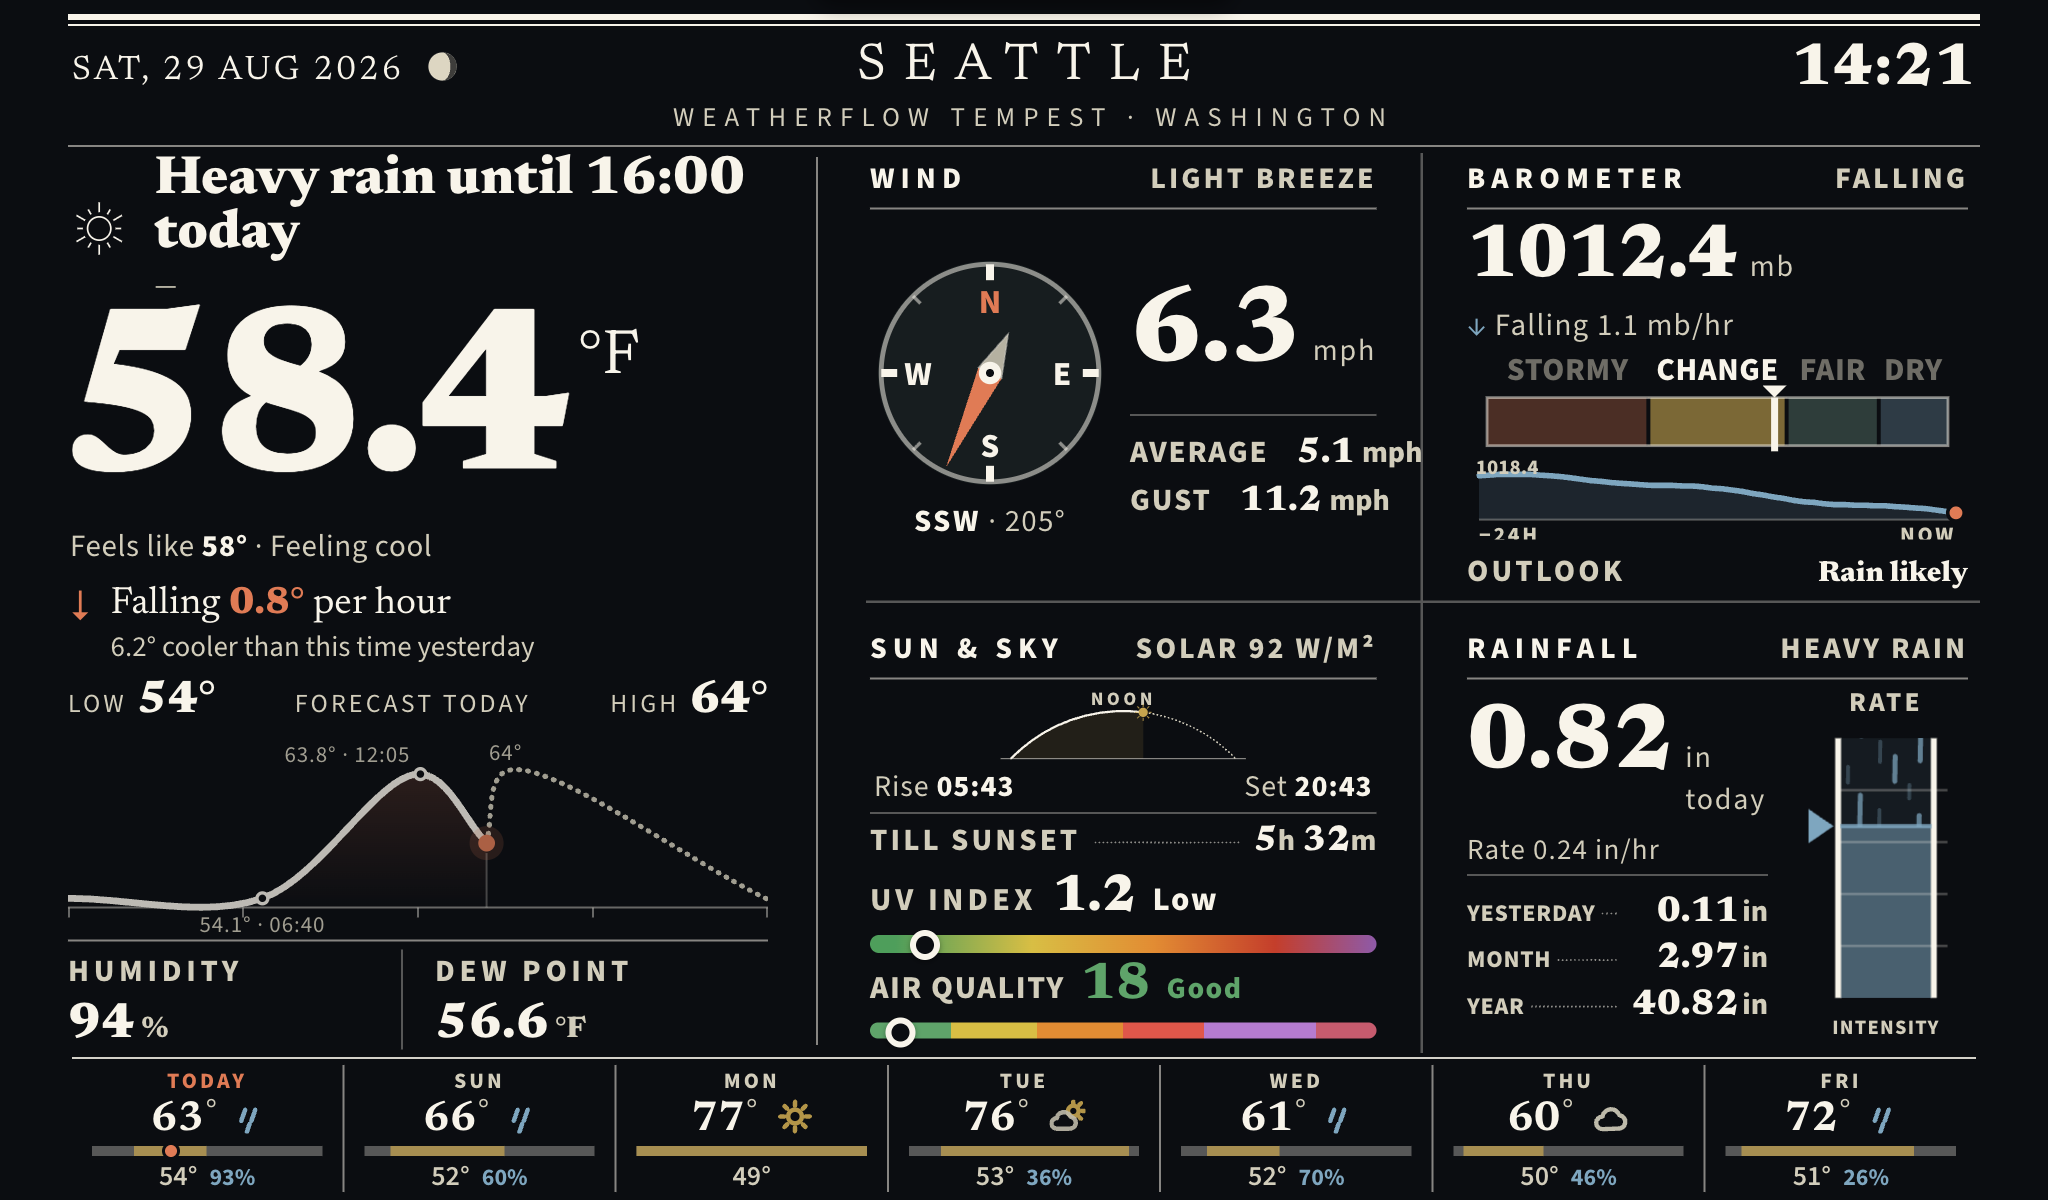
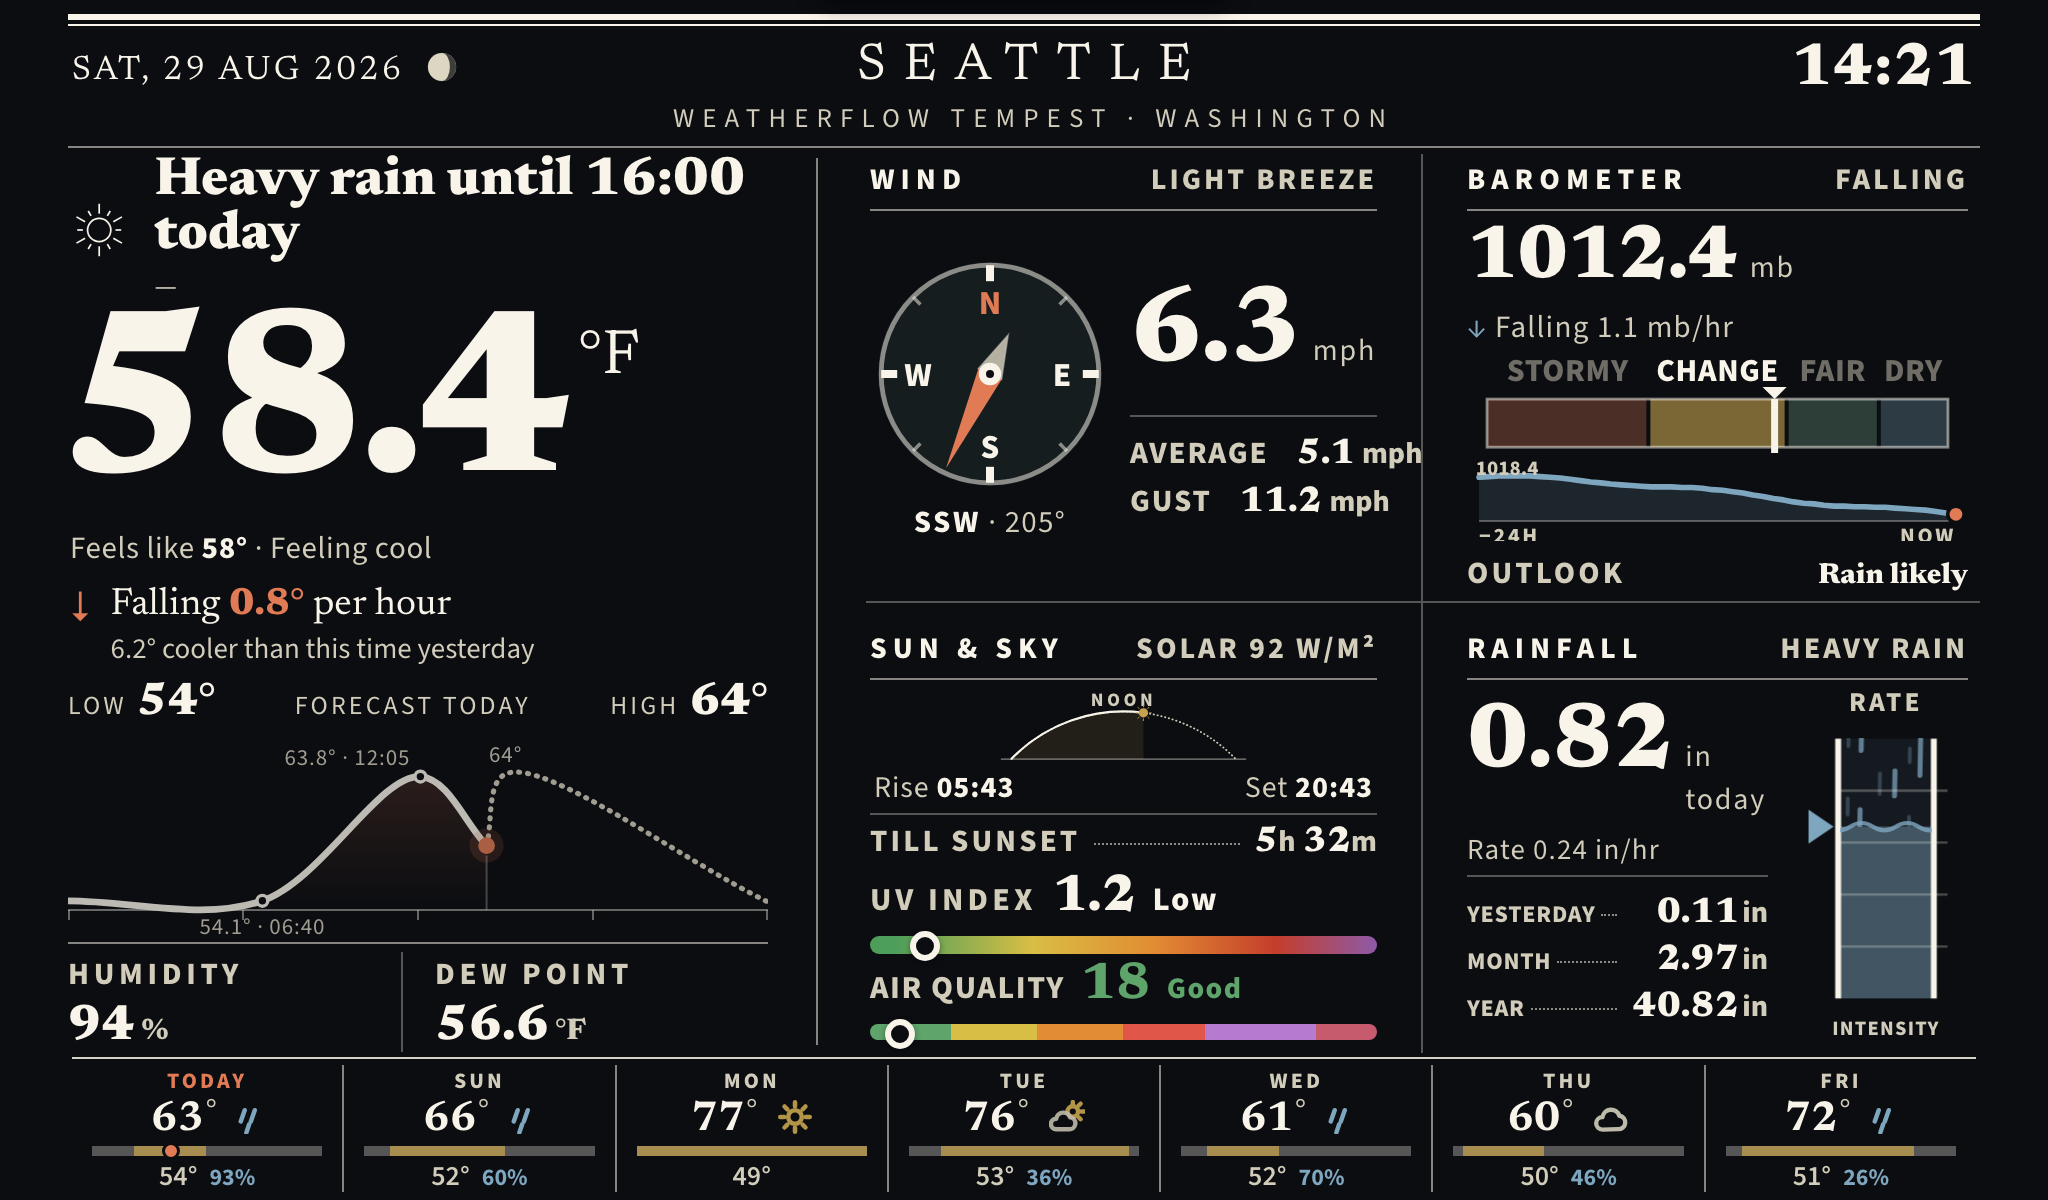
almanac: the waterline waves - a traveling sine surface replaces the fade
Gary's call: instead of the water column fading up and down, a subtle
wave. The meniscus is now a gentle sine surface (four 20px wavelengths,
±1.6px) riding the pointer group - its MEAN position stays the data -
translated by exactly one wavelength per loop so the drift is seamless,
and drifting quicker as the rate climbs (4.2s calm rain -> 1.8s deluge).
The whole-column opacity breathe is gone entirely; the surface carries
the "live" signal now. Clipped to the tube walls in the pointer group's
own space so the wave rides the level.

README hero and rainfall GIF regenerated from the Seattle sample.

Claude-Session: https://claude.ai/code/session_0151njDYwvvtFuoSwih6FByU

diff --git a/design/almanac/console_live.html b/design/almanac/console_live.html
@@ -360,9 +360,6 @@
   /* while rain is actively falling the water breathes — a slow opacity swell
      that says "live" at a glance. Opacity only (GPU-composited on the Pi);
      the pointer never fakes motion: its position is data. */
-  /* while rain falls the water swells almost imperceptibly — alive, not throbbing */
-  #raingauge.raining .gauge-col { animation: water-breathe 6.5s ease-in-out infinite; }
-  @keyframes water-breathe { 0%, 100% { opacity: 0.42; } 50% { opacity: 0.52; } }
 
   /* ———— falling rain · two-depth etched hatching (Fable design) ————
      Continuous columns: one dashed line per column, translated by exactly one
@@ -381,14 +378,14 @@
   #raingauge.rain2 .r2 { visibility: visible; }
   #raingauge.rain3 .r2, #raingauge.rain3 .r3 { visibility: visible; }
   #raingauge.rain3 .streak-near { opacity: 0.72; }
-  /* meniscus at the waterline — rides the pointer group (position = data),
-     shimmers in place while raining */
-  .gauge-surf { stroke: var(--water); stroke-width: 1.8; opacity: 0; }
-  #raingauge.raining .gauge-surf { animation: surf-shimmer 3.4s ease-in-out infinite; }
-  @keyframes surf-shimmer { 0%, 100% { opacity: 0.45; } 50% { opacity: 0.9; } }
+  /* the waterline itself waves — a gentle sine surface riding the pointer
+     group (its MEAN position is the data; the ±1.6px undulation is texture).
+     Translated by exactly one wavelength per loop, so the drift is seamless. */
+  .gauge-surf { stroke: var(--water); stroke-width: 1.8; stroke-linecap: round; fill: none; opacity: 0; }
+  #raingauge.raining .gauge-surf { opacity: 0.8; animation: surf-drift linear infinite; }
+  @keyframes surf-drift { to { transform: translateX(20px); } }
 
   @media (prefers-reduced-motion: reduce) {
-    #raingauge.raining .gauge-col   { animation: none; }
     #raingauge.raining .streak-far,
     #raingauge.raining .streak-near { animation: none; opacity: 0; }
     #raingauge.raining .gauge-surf  { animation: none; opacity: 0.6; }
@@ -1083,7 +1080,7 @@
     return 1;
   }
 
-  var rainPtr, rainFill, rainClipRect, rainStreaks = null, rainGeom = { top: 22, bot: 136, x1: 15 };
+  var rainPtr, rainFill, rainClipRect, rainStreaks = null, surfWave = null, rainGeom = { top: 22, bot: 136, x1: 15 };
   (function () {
     var svg = $("raingauge");
     var top = rainGeom.top, bot = rainGeom.bot, x1 = rainGeom.x1, x2 = 57, cx = (x1 + x2) / 2;
@@ -1126,7 +1123,15 @@
       el("line", { class: "rain-band", x1: x1, y1: y, x2: x2 + 6, y2: y }, svg);
     }
     rainPtr = el("g", { class: "gauge-ptr-g" }, svg);              /* group rides the water level */
-    el("line", { class: "gauge-surf", x1: x1 + 1, y1: bot, x2: x2 - 1, y2: bot }, rainPtr);
+    /* sine surface: four 20px wavelengths starting one wavelength left of the
+       tube, clipped to the tube walls; translateX(20px) per loop = seamless.
+       The clip lives in the pointer group's space, so it rides the level too. */
+    var surfClip = el("clipPath", { id: "surf-clip" }, defs);
+    el("rect", { x: x1 + 1, y: bot - 5, width: x2 - x1 - 2, height: 10 }, surfClip);
+    var surfG = el("g", { "clip-path": "url(#surf-clip)" }, rainPtr);
+    var wd = "M " + (x1 - 20) + " " + bot;
+    for (var wv = 0; wv < 4; wv++) { wd += " q 5 -3.2 10 0 q 5 3.2 10 0"; }
+    surfWave = el("path", { class: "gauge-surf", d: wd }, surfG);
     el("polygon", { class: "gauge-ptr",
       points: (x1 - 2) + "," + bot + " " + (x1 - 13) + "," + (bot - 7.5) + " " + (x1 - 13) + "," + (bot + 7.5) }, rainPtr);
   })();
@@ -1439,6 +1444,10 @@
        measured intensity crosses each engraved line */
     $("raingauge").classList.toggle("rain2", rr >= 0.4);
     $("raingauge").classList.toggle("rain3", rr >= 0.6);
+    if (surfWave) {
+      var surfDur = (4.2 - 2.4 * rr).toFixed(2) + "s";   /* gentle drift, quicker in a downpour */
+      if (surfWave.style.animationDuration !== surfDur) surfWave.style.animationDuration = surfDur;
+    }
     /* NOTE: no intensity word here — the tile header (rainStatus) and the tube
        level both carry it already, and a third copy overflowed the column
        ("… · Moderat" clipped against the gauge on the real panel) */
